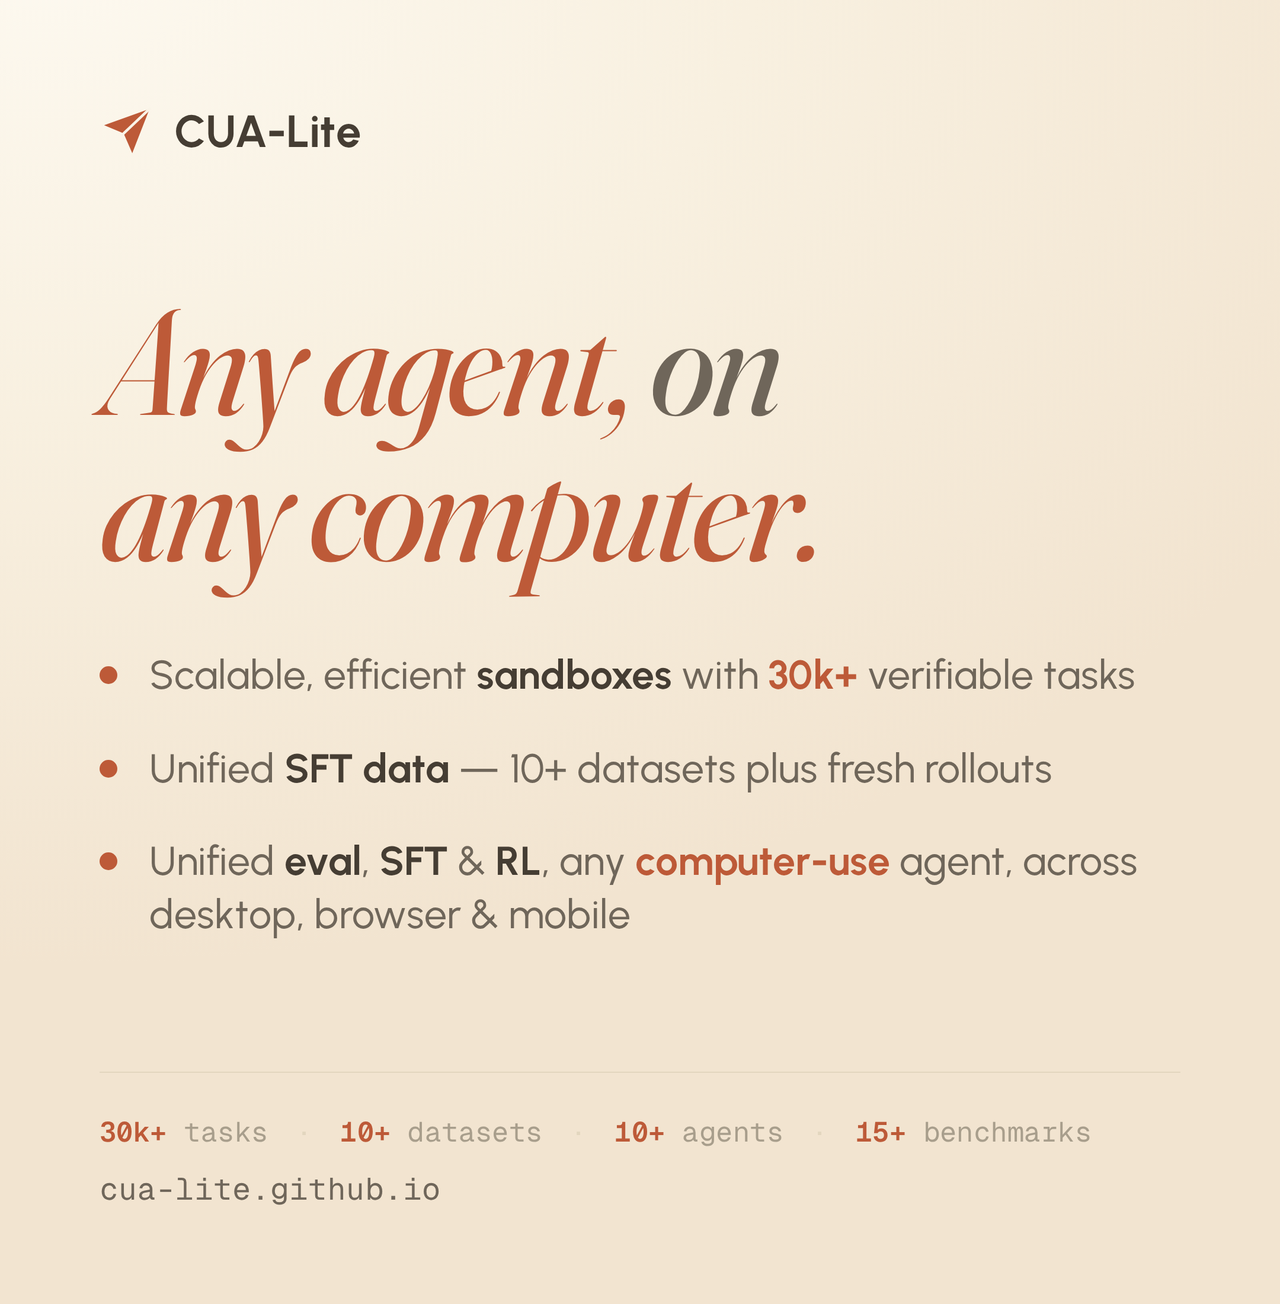
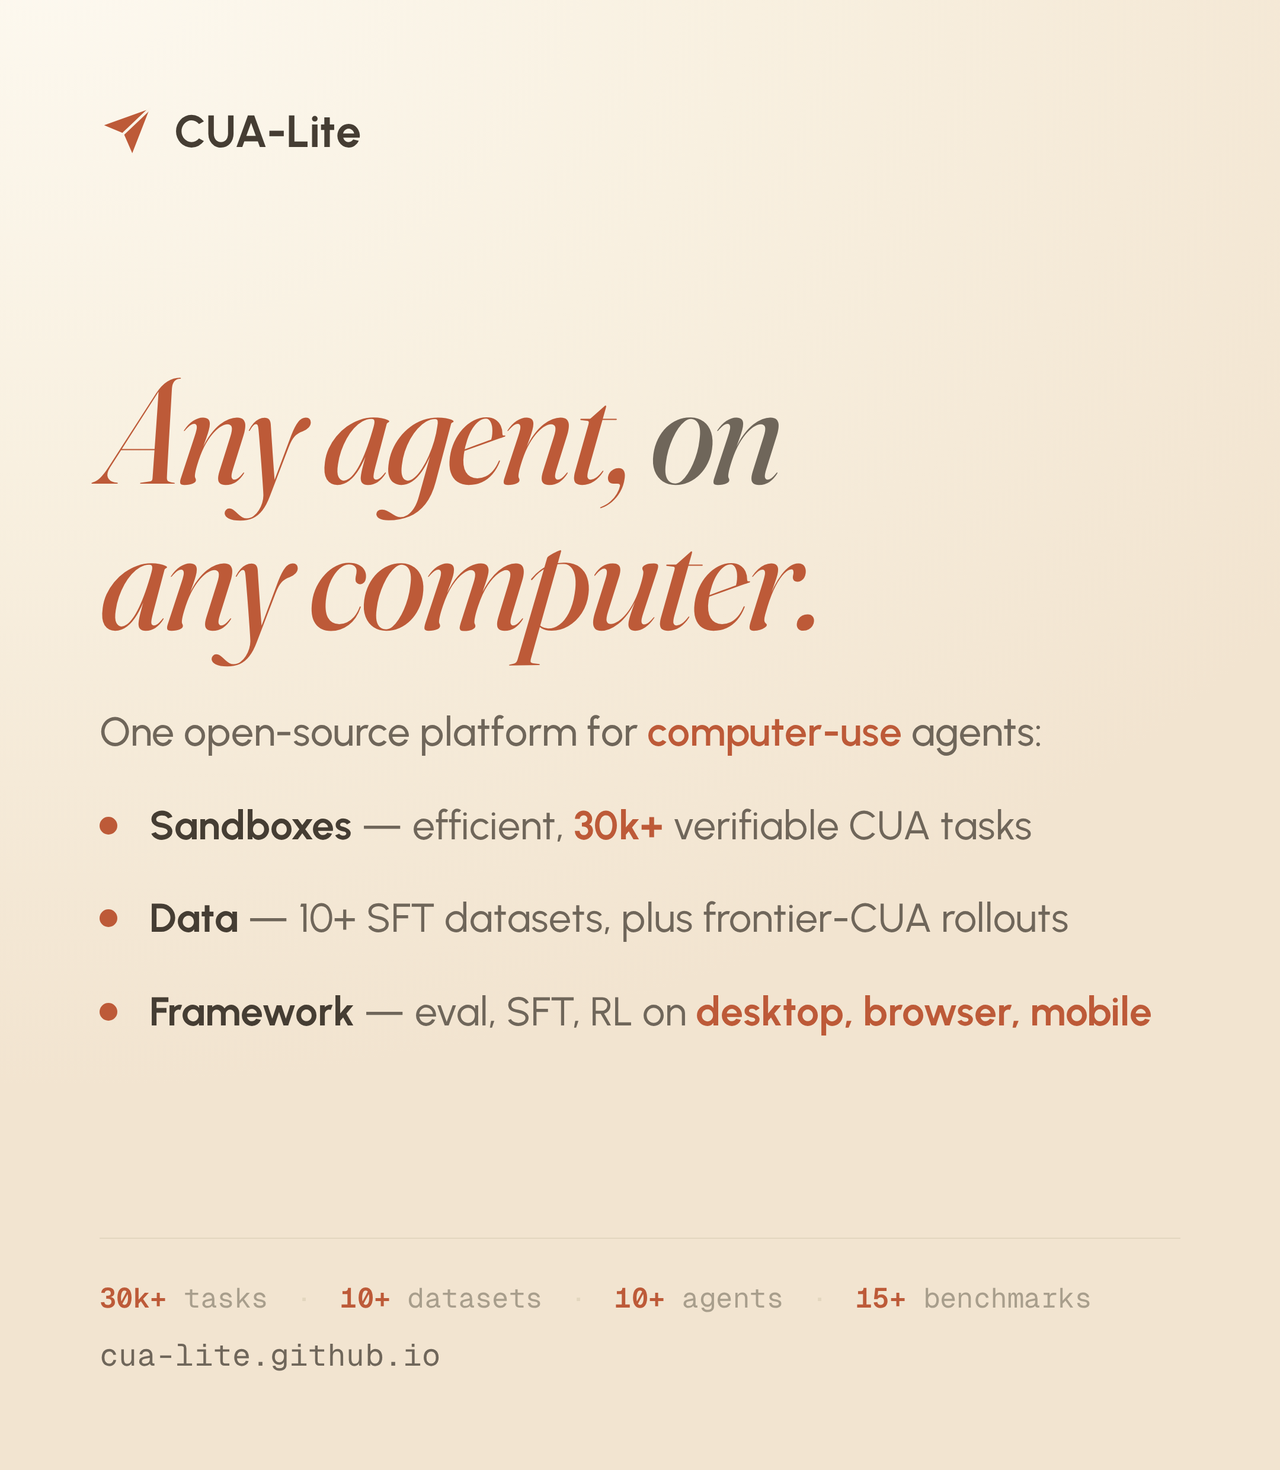
red/01: bilingual covers, written-register copy pass, sitewide lead alignment
Covers (posts/red/01/make_cover.py) — now 4: EN + 中文 × compact/tall.
- Chinese covers keep the brand's English Fraunces slogan and localize only
  the body; CJK body set in subset Noto Sans SC (subset_cjk.sh → build/fonts,
  ~10KB each; the 28MB source OTFs stay gitignored).
- Bullets lead with their pillar noun (Sandboxes / Data / Framework), matching
  the homepage. A lead line names the computer-use agent once so all three
  bullets inherit the CUA context.
- Typography fixed by measurement, not eyeball: lead and bullets share one size
  (34px), every line verified to fit on a single line (the platform list was
  339px over, so the copy was cut rather than the line-breaker fought).

Copy (posts/red/01/README.md) — plain WRITTEN register throughout:
基本一致→相当, 三样东西→三个要素, 加上→以及, 都能→均可, 用来→用于,
长成→成长为, 接进来→贡献. Opening is a 判断句 (CUA-Lite IS the platform).

Fact fixes, each verified against the repo:
- Drop WindowsAgentArena — grep finds it nowhere in the site, blogs, or
  assets/exps/eval/manifest.json; it is not integrated.
- VM-free → KVM-free: the site uses KVM-free in all 11 occurrences.
- 「分数对齐」→「分数相当」, bound to Lite.OSWorld only (blog says "within a
  few points"; measured mean |Δ| ≈ 2.7, worst 5.0 over 13 models).
- Ownership made explicit (外部 / 我们的 / 自建) so Lite.* reads as ours.

Sitewide: the hero lead is now "One open-source platform with everything a
computer-use agent needs" in index.html and blog/why-cua-lite, matching the
[…]

diff --git a/index.html b/index.html
@@ -59,7 +59,7 @@
     <div class="hero-head">
       <p class="eyebrow">Computer-use agents made simple</p>
       <h1><em>Any agent, <span class="h1-hinge">on</span></em><br /><em>any computer.</em></h1>
-      <p class="lead">All a <span class="lc">computer-use</span> agent needs — open to share, simple to run:</p>
+      <p class="lead">One open-source platform with everything a <span class="lc">computer-use</span> agent needs:</p>
       <ul class="lead-claims">
         <li>
           <span class="claim-t"><b>Sandboxes</b> — efficient environments with <b class="nb">30k+ verifiable tasks</b> to train and benchmark CUAs <span class="nb">at scale</span>.</span>

diff --git a/blog/why-cua-lite/index.html b/blog/why-cua-lite/index.html
@@ -385,8 +385,8 @@
     </div>
   </figure>
 
-  <p><b>CUA-Lite puts all of it in one place</b> — all a computer-use agent
-  needs, open to share, simple to run: (1)&nbsp;<b>sandboxes with verifiable
+  <p><b>CUA-Lite puts all of it in one place</b> — one open-source platform with
+  everything a computer-use agent needs: (1)&nbsp;<b>sandboxes with verifiable
   tasks</b> for benchmarking and training at scale; (2)&nbsp;<b>unified SFT
   data</b>, 10+ datasets and fresh rollouts, free on
   <a href="https://huggingface.co/cua-lite" target="_blank" rel="noopener">Hugging&nbsp;Face</a> —

diff --git a/posts/red/01/make_cover.py b/posts/red/01/make_cover.py
@@ -39,7 +39,9 @@ h1{font-family:'Fraunces';font-style:italic;color:var(--accent);
   font-variation-settings:'opsz' 144,'wght' 400,'SOFT' 0,'WONK' 0;
   font-size:126px;line-height:0.98;letter-spacing:-0.025em;}
 h1 .hinge{color:var(--muted);}
-.claims{margin-top:58px;display:flex;flex-direction:column;gap:34px;}
+.lead{margin-top:48px;font-size:34px;line-height:1.32;color:var(--muted);font-weight:500;white-space:nowrap;}  /* same size as the bullets; must stay one line */
+.lead .lc{color:var(--accent);font-weight:600;}
+.claims{margin-top:34px;display:flex;flex-direction:column;gap:34px;}
 .claim{position:relative;padding-left:42px;font-size:34px;line-height:1.32;color:var(--muted);font-weight:450;}
 .claim::before{content:"";position:absolute;left:0;top:14px;width:15px;height:15px;border-radius:50%;background:var(--accent);}
 .claim b{color:var(--text);font-weight:680;}
@@ -62,15 +64,46 @@ h1 .hinge{color:var(--muted);}
 </style></head><body style="height:%HEIGHT%px;">
 """
 
+# Chinese covers: keep the brand's English Fraunces headline (the signature slogan) as the hero,
+# localize only the body — bullets/labels/footer in Noto Sans SC (echoes Urbanist). This keeps the
+# brand face intact and sidesteps 电脑/设备; English-hero + Chinese-body is the premium bilingual look.
+_ZH_CSS = """
+@font-face{font-family:'SansSC';src:url('/posts/red/01/build/fonts/SansSC-Regular.woff2') format('woff2');font-weight:400;font-style:normal;}
+@font-face{font-family:'SansSC';src:url('/posts/red/01/build/fonts/SansSC-Bold.woff2') format('woff2');font-weight:700;font-style:normal;}
+.claim,.lead{font-family:'Urbanist','SansSC',sans-serif;}
+.claim{line-height:1.5;}
+.brand .name{font-family:'Urbanist','SansSC',sans-serif;}
+.plats,.foot .stats{font-family:'Geist Mono','SansSC',monospace;}
+.dev-lab{font-family:'SansSC',sans-serif;letter-spacing:0.05em;}
+"""
+HEAD_ZH = HEAD.replace("</style>", _ZH_CSS + "</style>")
+
+# Optional fully-Chinese headline (Noto Serif SC echoes Fraunces; CJK has no italic, so it's upright
+# with only the Latin "agent" kept in Fraunces italic). To use: set HEAD_ZH = HEAD.replace("</style>",
+# _ZH_CSS + _ZH_SERIF_CSS + "</style>") and swap H1→H1_ZH / H1B→H1B_ZH in the ZH bodies below.
+_ZH_SERIF_CSS = """
+@font-face{font-family:'SerifSC';src:url('/posts/red/01/build/fonts/SerifSC.woff2') format('woff2');font-weight:600;font-style:normal;}
+h1{font-family:'SerifSC','Fraunces',serif;font-style:normal;font-weight:600;font-size:120px;line-height:1.1;letter-spacing:0.005em;}
+h1 .en{font-family:'Fraunces';font-style:italic;font-weight:400;letter-spacing:-0.02em;}
+"""
+
 BRAND = '<div class="brand"><span class="plane"></span><span class="name">CUA-Lite</span></div>'
 H1 = '<h1>Any agent, <span class="hinge">on</span><br>any computer.</h1>'
 H1B = '<h1 style="margin-top:56px">Any agent, <span class="hinge">on</span><br>any computer.</h1>'  # brand→headline breathing room in the tall variant
-_C12 = """  <p class="claim">Scalable, efficient <b>sandboxes</b> with <b class="lc">30k+</b> verifiable tasks</p>
-  <p class="claim">Unified <b>SFT data</b> — 10+ datasets plus fresh rollouts</p>"""
-# 01a carries the platforms as a natural continuation of the third bullet (it has no devices);
-# 01b leaves the third bullet clean because the labelled devices below already say desktop/browser/mobile.
-CLAIMS_A = f'<div class="claims">\n{_C12}\n  <p class="claim">Unified <b>eval</b>, <b>SFT</b> &amp; <b>RL</b>, any <span class="lc">computer-use</span> agent, across desktop, browser &amp; mobile</p>\n</div>'
-CLAIMS_B = f'<div class="claims">\n{_C12}\n  <p class="claim">Unified <b>eval</b>, <b>SFT</b> &amp; <b>RL</b>, any <span class="lc">computer-use</span> agent</p>\n</div>'
+# Lead that introduces the bullets (homepage hero pattern) — names the computer-use agent once so
+# all three bullets inherit the CUA context; bullet 3 then drops "computer-use" and just says "agent".
+LEAD = '<p class="lead">One open-source platform for <span class="lc">computer-use</span> agents:</p>'
+LEAD_ZH = '<p class="lead">一个开源平台，提供 <span class="lc">computer-use</span> agent 所需的一切：</p>'
+# Each bullet leads with its pillar noun (homepage pattern: Sandboxes / Data / Framework) so the
+# three read as parallel pillars and no two start with the same word.
+_C12 = """  <p class="claim"><b>Sandboxes</b> — efficient, <b class="lc">30k+</b> verifiable CUA tasks</p>
+  <p class="claim"><b>Data</b> — 10+ SFT datasets, plus frontier-CUA rollouts</p>"""
+# Both variants carry the platforms: 01b's labelled devices show them, but the bullet should still
+# say them in words so the claim stands on its own. "any agent" is dropped — the headline already
+# says it — which is what lets the whole bullet sit on ONE line (measured 846px of 870 available;
+# keeping "across" instead of "on" overflows, and the colon form fits by only 1px, too fragile).
+CLAIMS = f'<div class="claims">\n{_C12}\n  <p class="claim"><b>Framework</b> — eval, SFT, RL on <b class="lc">desktop, browser, mobile</b></p>\n</div>'
+CLAIMS_A = CLAIMS_B = CLAIMS
 DEVICES = f"""<div class="devices">
   <div class="devcol"><img class="d-desktop" src="{DEV}/dev-desktop.png" alt=""><span class="dev-lab">desktop</span></div>
   <div class="devcol"><img class="d-browser" src="{DEV}/dev-browser.png" alt=""><span class="dev-lab">browser</span></div>
@@ -82,11 +115,37 @@ FOOT = """<div class="foot">
 </div>"""
 
 # 01a — compact: text (+ a platform line) centred in a short canvas.
-BODY_A = f'{BRAND}<div class="mid">{H1}{CLAIMS_A}</div>{FOOT}'
+BODY_A = f'{BRAND}<div class="mid">{H1}{LEAD}{CLAIMS_A}</div>{FOOT}'
 # 01b — tall: text up top, hero devices labelled by platform along the bottom.
-BODY_B = f'{BRAND}{H1B}{CLAIMS_B}<div class="grow"></div>{DEVICES}<div class="grow"></div>{FOOT}'
+BODY_B = f'{BRAND}{H1B}{LEAD}{CLAIMS_B}<div class="grow"></div>{DEVICES}<div class="grow"></div>{FOOT}'
 
-VARIANTS = [("01a-cover.png", 1100, BODY_A), ("01b-cover.png", 1440, BODY_B)]
+# --- Chinese siblings (English Fraunces headline + localized body) ---
+# Full-Chinese headline alternative (used only with _ZH_SERIF_CSS above): slogan「任何 agent，任何电脑。」
+H1_ZH = '<h1>任何 <span class="en">agent</span>，<br>任何电脑。</h1>'
+H1B_ZH = '<h1 style="margin-top:56px">任何 <span class="en">agent</span>，<br>任何电脑。</h1>'
+_C12_ZH = """  <p class="claim"><b>沙盒</b>：高效、可扩展，内置 <b class="lc">30k+</b> 个可验证 CUA 任务</p>
+  <p class="claim"><b>数据</b>：10+ 个 SFT 数据集、前沿 CUA rollout</p>"""
+CLAIMS_ZH = f'<div class="claims">\n{_C12_ZH}\n  <p class="claim"><b>框架</b>：评测、SFT、RL，覆盖 <b class="lc">桌面、浏览器与移动端</b></p>\n</div>'
+CLAIMS_A_ZH = CLAIMS_B_ZH = CLAIMS_ZH
+DEVICES_ZH = f"""<div class="devices">
+  <div class="devcol"><img class="d-desktop" src="{DEV}/dev-desktop.png" alt=""><span class="dev-lab">桌面</span></div>
+  <div class="devcol"><img class="d-browser" src="{DEV}/dev-browser.png" alt=""><span class="dev-lab">浏览器</span></div>
+  <div class="devcol"><img class="d-mobile" src="{DEV}/dev-mobile.png" alt=""><span class="dev-lab">移动端</span></div>
+</div>"""
+FOOT_ZH = """<div class="foot">
+  <div class="stats"><b>30k+</b> 任务 <i>·</i> <b>10+</b> 数据集 <i>·</i> <b>10+</b> agent <i>·</i> <b>15+</b> benchmark</div>
+  <div class="url">cua-lite.github.io</div>
+</div>"""
+BODY_A_ZH = f'{BRAND}<div class="mid">{H1}{LEAD_ZH}{CLAIMS_A_ZH}</div>{FOOT_ZH}'
+BODY_B_ZH = f'{BRAND}{H1B}{LEAD_ZH}{CLAIMS_B_ZH}<div class="grow"></div>{DEVICES_ZH}<div class="grow"></div>{FOOT_ZH}'
+
+# (name, height, body, head)
+VARIANTS = [
+    ("01a-cover.png",    1240, BODY_A,    HEAD),
+    ("01b-cover.png",    1440, BODY_B,    HEAD),
+    ("01a-cover-zh.png", 1240, BODY_A_ZH, HEAD_ZH),
+    ("01b-cover-zh.png", 1440, BODY_B_ZH, HEAD_ZH),
+]
 
 
 def main() -> None:
@@ -97,8 +156,8 @@ def main() -> None:
         time.sleep(1.0)
         with sync_playwright() as p:
             b = p.chromium.launch()
-            for name, height, body in VARIANTS:
-                tmp.write_text(HEAD.replace("%HEIGHT%", str(height)) + body + "</body></html>")
+            for name, height, body, head in VARIANTS:
+                tmp.write_text(head.replace("%HEIGHT%", str(height)) + body + "</body></html>")
                 pg = b.new_page(viewport={"width": 1080, "height": height}, device_scale_factor=2)
                 pg.goto(f"http://localhost:{PORT}/_red_cover_tmp.html")
                 pg.wait_for_timeout(700)  # let the webfonts + device PNGs settle

diff --git a/posts/red/01/README.md b/posts/red/01/README.md
@@ -10,7 +10,8 @@
 
 ## 标题（选一个；小红书标题上限约 20 字，字数已标注）
 
-1. ⭐ CUA-Lite：训练与评测 CUA 的开源生态　（22 字，略超；封面已带 brand，可接受）
+1. ⭐ CUA-Lite：训练与评测 CUA 的开源平台　（22 字，略超；封面 lead 不带品牌名，故标题必须带 CUA-Lite）
+   　**用「平台」不用「生态」**：平台是现在**已经**成立的事实（沙盒+数据+框架），生态是结尾那句「希望长成社区驱动的开源 CUA 生态」的**愿景**；标题若已写「生态」，结尾的愿景就自相矛盾。与封面 lead「一个开源平台」也一致。
 2. 训练与评测 CUA 的开源生态：沙盒 · 数据 · 框架　（21 字，点出三支柱）
 3. 训练与评测 CUA 的开源生态　（13 字，最稳，brand 由封面/正文承担）
 4. 任何 agent，任何电脑：CUA-Lite　（＝首页 slogan，配标题卡封面才直观）
@@ -22,20 +23,20 @@
 ## 正文（直接复制这段）
 
 ```
-CUA-Lite：训练与评测 CUA 的开源生态
+CUA-Lite：训练与评测 CUA 的开源平台
 
-训练与评测 CUA（computer-use agent），需要沙盒、数据和一套框架：CUA-Lite 把这三样统一在一处，覆盖桌面、浏览器与移动端，开放共享、简单可跑。
+训练与评测 CUA（computer-use agent）需要沙盒、数据与框架三个要素。CUA-Lite 是集成这三者的开源平台，覆盖桌面、浏览器与移动端。
 
-▪ 轻量沙盒与可验证任务
-轻量的 KVM-free 沙盒，内置 30k+ 个可验证任务，用于大规模训练与评测 CUA。例如可高效复现 OSWorld 等 benchmark（分数对齐、可大规模并行），也容纳 CUAGym、CUAWorld 等各类 CUA 训练任务。
+▪ 沙盒：高效、任务可验证
+免虚拟机（KVM-free）的沙盒，内置 30k+ 个可验证 CUA 任务，可并行支撑大规模训练与评测。既能复现 OSWorld 等外部 benchmark（我们的 Lite.OSWorld 与原版分数相当），也自建了 Lite.CUAGym、Lite.CUAWorld 等训练环境。
 
-▪ 统一数据
-10+ 个 SFT 数据集，以及来自前沿 CUA 的新 rollout，统一为一套格式，在 Hugging Face 免费开放。转换一次，任何 agent 都能在其上训练。
+▪ 数据：统一、开放
+10+ 个 SFT 数据集，以及前沿 CUA 产生的最新 rollout（交互轨迹），统一为一套格式，在 Hugging Face 免费开放。
 
-▪ 统一框架：评测、SFT、RL
-一个统一接口，任何 agent 接入任何环境，几乎零改动。同一段交互记录（rollout），评测时给出排名，训练时作为学习信号。已覆盖桌面、浏览器、移动端的 15+ 个 benchmark，都带公开榜单：OSWorld、OSWorld-2、WindowsAgentArena、WebArena、WebVoyager、AndroidWorld、MobileWorld 等。
+▪ 框架：评测、SFT、RL
+统一的 agent 与环境交互接口，任何 agent 均可接入任何环境。同一份 rollout，评测时用于打分排名，训练时用作学习信号。已接入 15+ 个 benchmark：OSWorld、OSWorld-2、WebArena、WebVoyager、AndroidWorld、MobileWorld 等。
 
-沙盒、数据、框架三者都在持续扩展。我们希望 CUA-Lite 最终长成一个社区驱动的开源 computer-use 生态: 欢迎带来你的数据集、环境或 agent。
+三者都在持续扩展。我们希望 CUA-Lite 最终成长为社区驱动的开源 CUA 生态，欢迎贡献你的数据集、环境或 agent。
 
 站点 cua-lite.github.io
 GitHub github.com/cua-lite/cua-lite
@@ -51,16 +52,19 @@ UC Berkeley · Microsoft
 
 轮播顺序 = 封面 + 主页四个 section（对齐主页叙事 hero→沙盒→数据→评测→训练）：
 
-1. **封面（二选一）**
-   - `assets/01a-cover.png` — 紧凑版（1080×1040），文字为主，第三条 bullet 自然带出 desktop/browser/mobile。
-   - `assets/01b-cover.png` — 竖版（1080×1440），文字上移，底部放 hero 的桌面/浏览器/移动端三设备（带完整边框、标平台名）。
+1. **封面（4 张：英文 + 中文各两版，同版式）**
+   - `assets/01a-cover.png` / `assets/01a-cover-zh.png` — 紧凑版（1080×1240），纯文字。
+   - `assets/01b-cover.png` / `assets/01b-cover-zh.png` — 竖版（1080×1440），文字上移，底部放 hero 的桌面/浏览器/移动端三设备（带完整边框、标平台名）。
+   - **定位 lead 引出三条 bullet**（与首页 hero 同步：`One open-source platform with everything a computer-use agent needs:` / 中文「一个开源平台，提供 computer-use agent 所需的一切：」）——先点名 CUA、给出「开源平台」定位，三条 bullet 才都落在 CUA 语境里；因此第三条 bullet 跟首页一样只说「any agent / 任何 agent」，不再重复 computer-use。封面 lead **不重复品牌名**（logo 已自证），首页/正文才带 CUA-Lite。
+   - **三条 bullet 以支柱名打头**（`Sandboxes / Data / Framework`＝`沙盒 / 数据 / 框架`，同首页），三条平行、无一重复起首词；`30k+ verifiable CUA tasks / 可验证 CUA 任务` 点明任务是给 CUA 的。排版硬约束：lead 与 bullet **同字号（34px）**、lead **必须单行**、平台清单（`across desktop, browser, and mobile`）用 `.keep` 整体换行，不从中间断开。
+   - **中文版 = 英文 Fraunces 标题（品牌招牌脸）+ 中文正文**：保留品牌 slogan、避开「电脑/设备」取舍；正文/标签/页脚用**思源黑体（Noto Sans SC，对应 Urbanist）**。全中文标题（思源宋体 + Fraunces 斜体 `agent`）为可选项，见 `make_cover.py` 里 `_ZH_SERIF_CSS` / `H1_ZH` 注释。
 2. **`assets/02-sandboxes.png`** — 主页 01·Sandboxes **整段**：标题「Efficient sandboxes, any task.」+ 说明 + rollout belt（真实桌面 app：calc/files/impress/chrome/gimp/vlc…，两侧淡出）。
 3. **`assets/03-data.png`** — 主页 02·Data **整段**：标题「One schema, any dataset.」+ Corpora/Rollouts 双卡 + **真实 HF 数据表**（images/messages/metadata 列、直方图、样本行）。
 4. **`assets/04-eval.png`** — 主页 03·Eval **整段**：标题「One command, any benchmark.」+ evaluate.sh 命令 + 覆盖板 + **13 行真实 leaderboard**（gpt-5.5 72.3% → …）。
 5. **`assets/05-train.png`** — 主页 04·Train **整段**：标题「SFT & RL, any open agent.」+ SFT/RL 切换 + 配置器 + run_sft.sh 全流程。
 
 02–05 都是**主页 section 的整段竖版截图**（自带小标题、叙事完整），全 PNG、只取主页(不碰 blog)。封面(第 1 张)决定点击率。
-**重制脚本：** `capture.py`（hero 设备切图，供封面用）· `make_cover.py`（封面 01a/01b）· `capture_sections.py`（section 02–05）。改站点后重跑即可同步。
+**重制脚本：** `capture.py`（hero 设备切图，供封面用）· `subset_cjk.sh`（下载并子集化中文封面字体 → `build/fonts/*.woff2`，约 10KB/个；仅新增中文字时才需重跑）· `make_cover.py`（封面 01a/01b + 中文版 -zh，共 4 张）· `capture_sections.py`（section 02–05）。改站点后重跑即可同步。
 
 ## 话题标签
 
@@ -75,16 +79,21 @@ UC Berkeley · Microsoft
 
 | 说法 | 来源 |
 |---|---|
-| 「任何 agent，任何电脑」+「需要的一切，开放共享、简单可跑」 | 首页 hero H1 + lead（`index.html:60-61`） |
+| 「任何 agent，任何电脑」slogan + 定位 lead「One open-source platform …」 | 首页 hero H1 + lead（`index.html`；封面、首页、`blog/why-cua-lite` 均已同步此 lead） |
+| **「开源」贯穿全篇**：标题「开源平台」→ 首段「是一个把三者集成在一起的开源平台」→ 结尾「希望长成社区驱动的开源 CUA 生态」 | 平台＝现状，生态＝愿景，前后不矛盾。首段必须用**判断句**（CUA-Lite **是**平台），写成「把三者统一在一个平台**上**」会读成 CUA-Lite 和平台是两个东西 |
 | 沙盒 — 高效环境 + 30k+ 可验证任务，大规模训练/评测 | 首页 hero 第 1 条，逐句 |
 | 数据 — 10+ SFT 数据集 + 前沿 CUA rollout，统一格式，HF 免费 | 首页 hero 第 2 条，逐句 |
 | eval / SFT / RL 任何 agent，桌面/浏览器/移动端 | 首页 hero 第 3 条，逐句 |
 | 免虚拟机 / 并行 / 一任务两用；转换一次任何 agent 都能训 | `blog/why-cua-lite` 对应三段的 bold lead |
-| 15+ benchmark 接入（正文说「都带公开榜单」= 轻度 overclaim；实际 11 个有公开榜单） | coverage board · `assets/exps/eval/manifest.json` 非 pending 项 |
+| 15+ benchmark 接入（正文只说「已接入 15+ 个 benchmark」，不再提榜单；实际 11 个有公开榜单） | coverage board · `assets/exps/eval/manifest.json` 非 pending 项 |
+| CUAGym / CUAWorld = **我们的** Lite.CUAGym / Lite.CUAWorld（外部 OSWorld 我们复现，Lite.* 是自建） | 首页 + blog belt-tab（`index.html:214-215`），与 red/02 封面命名一致 |
 
 ## 发布前检查
 
-- **正文已放 GitHub（`github.com/cua-lite/cua-lite`）——发布前务必确认 repo 已公开**（此前 404）；若仍未公开，就临时删掉这行。
-- KVM-free 的具体数字**不在本篇**（留给 02），本篇只说「轻量、免虚拟机」到属性层面。
+- ✅ **GitHub 已公开**（2026-08-22 实测 `HTTP 200`、`gh api private=false`），正文那行 `github.com/cua-lite/cua-lite` 可以保留。此前的 404 阻塞已解除。
+- ❌ **`WindowsAgentArena` 已从 benchmark 清单删除**：全仓库 grep（`index.html`、两篇 blog、`assets/exps/eval/manifest.json`）零命中，站点覆盖板 16 条里也没有它 —— 属于已证伪的 overclaim。清单现只留覆盖板上真实存在的 6 个。
+- **术语用 `KVM-free`，不要写 `VM-free`**：全站 11 处一律 KVM-free，`VM-free` 是我们自造且主张更大（读者会问「Docker 算不算 VM」）。
+- 「分数相当」只绑定在 **Lite.OSWorld** 上（13 模型实测，平均差 ~2.7、最差 5.0，博客原文为 "within a few points"）；不要写成「复现的所有 benchmark 都分数对齐」。
+- KVM-free 的具体数字**不在本篇**（留给 02），本篇只说「免虚拟机（KVM-free）」到属性层面。
 - 数字若与站点不一致，以站点为准，同步改这里。
-- **「15+ benchmark 都带公开榜单」是经确认的轻度 overclaim**（实际 11 个有公开榜单）；若要严谨，改回「15+ 接入，11 个带公开榜单」。
+- ✅ 原「15+ benchmark 都带公开榜单」的轻度 overclaim **已删除**：正文现在只说「已接入 15+ 个 benchmark」，不再声称都带榜单（实际 11 个有公开榜单，严谨且安全）。
